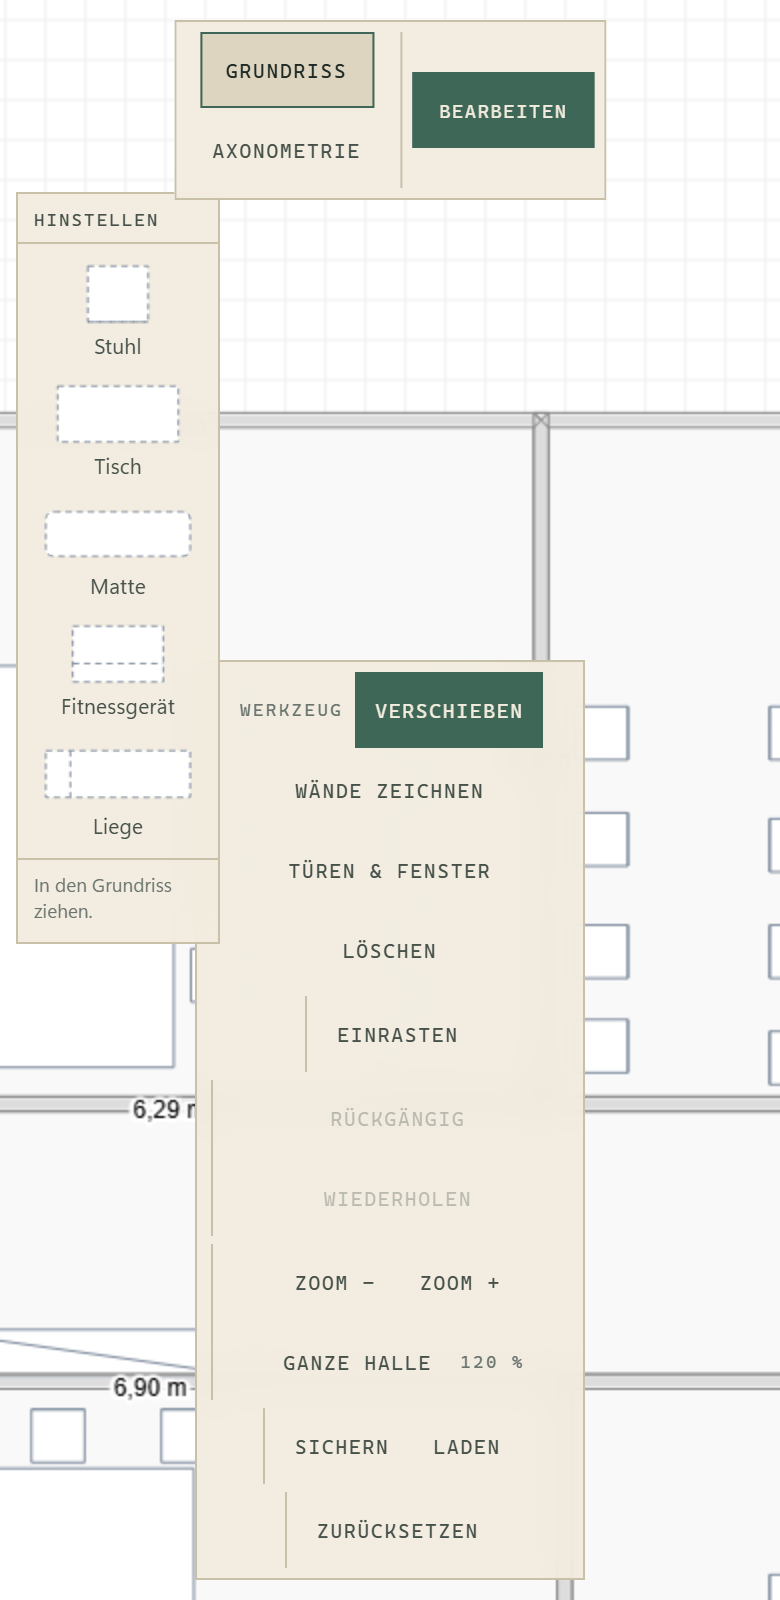
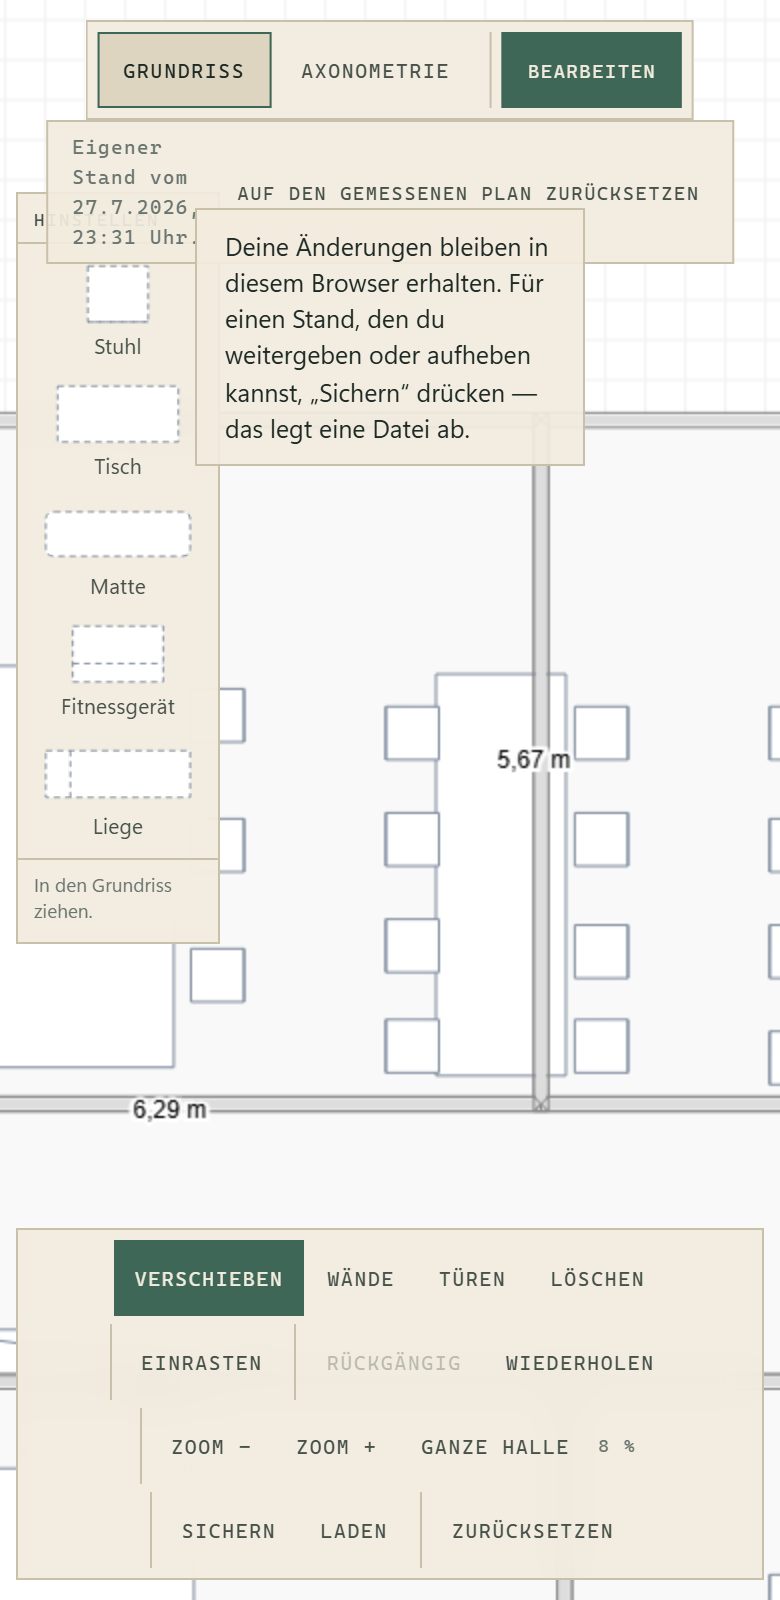
chore(autosave): drift-anchor 2026-07-27T21:32:34Z — 19 dirty tracked file(s)

diff --git a/Halle400-Modell.html b/Halle400-Modell.html
@@ -95,6 +95,15 @@
   button:disabled{opacity:.32;cursor:default}
   .lbl{font-family:var(--mono);font-size:9.5px;letter-spacing:.13em;text-transform:uppercase;
        color:var(--ink-mute);padding:0 7px 0 3px;user-select:none;font-variant-numeric:tabular-nums}
+  /* ZWEI FASSUNGEN EINES SATZES, damit die Medienabfrage die passende waehlen
+     kann. Am breiten Bildschirm steht die lange da — dort ist Platz, und
+     „Wände zeichnen" sagt mehr als „Wände". Am Handy die kurze, und nicht aus
+     Bequemlichkeit: dort war „Löschen" sonst ausserhalb der Anzeige, und die
+     Tastenhinweise („Strg+Z", „Esc") versprachen etwas, das ein Telefon nicht
+     hat. Ein Umschalten in JS gaebe es dafuer nicht umsonst — es muesste bei
+     jeder Groessenaenderung nachgezogen werden, und wer es einmal vergisst,
+     hat zwei Wahrheiten. */
+  .kurz{display:none}
 
   /* Kopfleiste: Umschalter + der unauffaellige Bearbeiten-Schalter. */
   .kopfleiste{position:fixed;top:10px;left:50%;transform:translateX(-50%);
@@ -260,19 +269,44 @@
     .kopf{padding:10px 14px;max-width:none}
     .kopf .sub{font-size:9px;letter-spacing:.11em;line-height:1.6}
     .strich{margin:7px 0 6px;max-width:180px}
-    .leiste{bottom:10px;padding:5px;gap:4px}
-    /* ── DIE LEISTE MUSS AUCH INNEN UMBRECHEN (Handy-Welle) ────────────────
+    /* GANZE BREITE, nicht nur hoechstens. GEMESSEN: mit `max-width` allein
+       richtete sich die Leiste nach ihrer breitesten Gruppe (255 px) — und die
+       Werkzeug-Gruppe, die mit `flex-basis:100%` genau diese 255 px erbt,
+       brach dadurch trotz kurzer Aufschriften um. Eine Leiste, die schmaler
+       ist als die Anzeige, verschenkt am Handy Hoehe, und Hoehe ist hier das
+       Knappe. */
+    .leiste{bottom:10px;padding:5px;gap:4px;width:calc(100vw - 16px);max-width:none}
+    /* ── DIE WERKZEUGE MUESSEN ERREICHBAR SEIN (Handy-Welle) ───────────────
        GEMESSEN am Standbild bei 390 x 800, nicht vermutet: `.leiste` bricht
-       zwar um, ihre GRUPPEN aber nicht — und die erste Gruppe ist mit vier
-       Werkzeugknoepfen rund 440 px breit. Bei 366 px verfuegbarer Breite lag
-       „Löschen" damit vollstaendig ausserhalb der Anzeige: das Loeschen-
-       Werkzeug war am Handy NICHT ERREICHBAR, und mit ihm der einzige Weg,
+       zwar um, ihre GRUPPEN aber nicht — und die Werkzeug-Gruppe ist mit ihren
+       vier Knoepfen rund 440 px breit. Bei 366 px verfuegbarer Breite lag
+       „Löschen" damit VOLLSTAENDIG ausserhalb der Anzeige: das Loeschen-
+       Werkzeug war am Handy nicht erreichbar, und mit ihm der einzige Weg,
        am Telefon etwas zu entfernen (Langdruck, E3).
 
-       Eine Leiste, die zwei Reihen hoch ist, kostet Platz; eine, deren
-       Knoepfe man nicht erreicht, kostet die Bedienung. `justify-content`
-       haelt die umgebrochene zweite Reihe mittig unter der ersten. */
-    .grp{flex-wrap:wrap;justify-content:center}
+       Zwei Massnahmen, in dieser Reihenfolge:
+
+       1. KUERZERE AUFSCHRIFTEN (s. `.lang`/`.kurz` in der Leiste). „Wände
+          zeichnen" -> „Wände", „Türen & Fenster" -> „Türen". Die volle Aussage
+          bleibt im `title`. Das spart Breite, ohne die Leiste hoeher zu machen
+          — und Hoehe ist am Telefon das Knappe: die Leiste nimmt schon so ein
+          Fuenftel der Anzeige.
+       2. Und wenn es trotzdem nicht reicht, DARF diese eine Gruppe umbrechen.
+          `flex-basis:100%` ist dabei Bedingung und nicht Zierde: ohne sie
+          schrumpft der Flex-Umbruch jede Gruppe auf ihren breitesten Knopf
+          zusammen, und die Leiste wird zu einer Saeule, die zwei Drittel der
+          Zeichenflaeche verdeckt. AM STANDBILD GEMESSEN — genau das ist beim
+          ersten Versuch passiert.
+
+       Ausdruecklich NUR diese beiden Gruppen: `.grp` global umbrechen zu
+       lassen zerlegte auch die Kopfleiste („Axonometrie" rutschte unter
+       „Grundriss"). */
+    #grpWerkzeug,#oeffnungsArten{flex-basis:100%;flex-wrap:wrap;justify-content:center}
+    /* Die Beschriftung der Gruppe kostet 58 px fuer eine Auskunft, die die
+       gedrueckte Schaltflaeche selbst gibt. */
+    #grpWerkzeug > .lbl,#oeffnungsArten > .lbl{display:none}
+    .leiste .lang,.frage .lang,.palette-fuss .lang{display:none}
+    .kurz{display:inline}
     button{padding:8px 9px;font-size:10px}
     .lbl{padding:0 4px 0 2px;font-size:9px}
     /* ── Die Palette AM HANDY (Handy-Welle) ──────────────────────────────
@@ -302,7 +336,6 @@
        waere er eine dritte Zeile fuer eine Auskunft, die schon zweimal da ist. */
     .pstueck .pmass{display:none}
     .palette-fuss{padding:6px 8px 8px;font-size:9.5px;line-height:1.4}
-    .palette-fuss .lang{display:none}
   }
   @media (prefers-reduced-motion:reduce){*{transition-duration:.01ms!important}}
 
@@ -470,11 +503,15 @@
   </aside>
 
   <div class="leiste" id="werkzeuge" role="toolbar" aria-label="Grundriss bearbeiten" hidden>
-    <div class="grp">
+    <!-- Die kurzen Aufschriften sind KEINE Abkürzung aus Bequemlichkeit: bei
+         390 px lag „Löschen" sonst ausserhalb der Anzeige (s. CSS, „Die
+         Werkzeuge müssen erreichbar sein"). Die volle Aussage steht im
+         `title` und geht damit nicht verloren. -->
+    <div class="grp" id="grpWerkzeug">
       <span class="lbl">Werkzeug</span>
-      <button type="button" id="wzMove" title="Verschieben — Ecken, Wände und Möbel ziehen. Q und E drehen das Möbel unter dem Zeiger um 15°." aria-pressed="true">Verschieben</button>
-      <button type="button" id="wzDraw" title="Wände zeichnen — Punkt für Punkt" aria-pressed="false">Wände zeichnen</button>
-      <button type="button" id="wzOeffnung" title="Türen &amp; Fenster — auf eine Wand zeigen, klicken setzt. Q wendet den Anschlag, E die Aufschlagseite." aria-pressed="false">Türen &amp; Fenster</button>
+      <button type="button" id="wzMove" title="Verschieben — Ecken, Wände und Möbel ziehen. Am Rechner drehen Q und E das Möbel unter dem Zeiger um 15°; am Handy zieht ein Finger das Möbel, zwei Finger zoomen." aria-pressed="true">Verschieben</button>
+      <button type="button" id="wzDraw" title="Wände zeichnen — Punkt für Punkt" aria-pressed="false"><span class="lang">Wände zeichnen</span><span class="kurz">Wände</span></button>
+      <button type="button" id="wzOeffnung" title="Türen &amp; Fenster — auf eine Wand zeigen, klicken setzt. Q wendet den Anschlag, E die Aufschlagseite." aria-pressed="false"><span class="lang">Türen &amp; Fenster</span><span class="kurz">Türen</span></button>
       <button type="button" id="wzDelete" title="Löschen — mit Rückfrage" aria-pressed="false">Löschen</button>
     </div>
     <!-- Die Arten der Öffnung. Sie erscheinen NUR mit dem Werkzeug: vier
@@ -537,7 +574,10 @@
     <button type="button" id="btnAbbrechen">Abbrechen</button>
     <button type="button" id="btnEntfernen" class="ernst">Entfernen</button>
   </span>
-  <span class="fuss">Rückgängig mit Strg+Z &middot; Abbrechen mit Esc</span>
+  <!-- Am Handy gibt es weder Strg+Z noch Esc. Beide Wege stehen dort aber als
+       Schaltfläche bereit („Abbrechen" hier, „Rückgängig" in der Leiste) — der
+       kurze Satz sagt darum die Zusage und nicht den Tastendruck. -->
+  <span class="fuss"><span class="lang">Rückgängig mit Strg+Z &middot; Abbrechen mit Esc</span><span class="kurz">Rückgängig geht auch danach noch.</span></span>
 </div>
 
 <div class="kopfleiste" role="toolbar" aria-label="Ansicht wählen">
@@ -4240,7 +4280,7 @@ const HOEHEN = {"oberkante":{"tisch":74,"rundtisch":74,"stuhl":45,"schrank":200,
 
 /* Fingerabdruck des eingebauten Plans und Zeitpunkt dieses Baus. */
 const PLAN_ABDRUCK = "c8051b95fb22";
-const BAU_STEMPEL = "2026-07-27 21:20";
+const BAU_STEMPEL = "2026-07-27 21:31";
 
 /* ══════ three (Rechen-Teil, ohne Bildschirm-Ausgabe) ══════ */
 /* eslint-disable */
